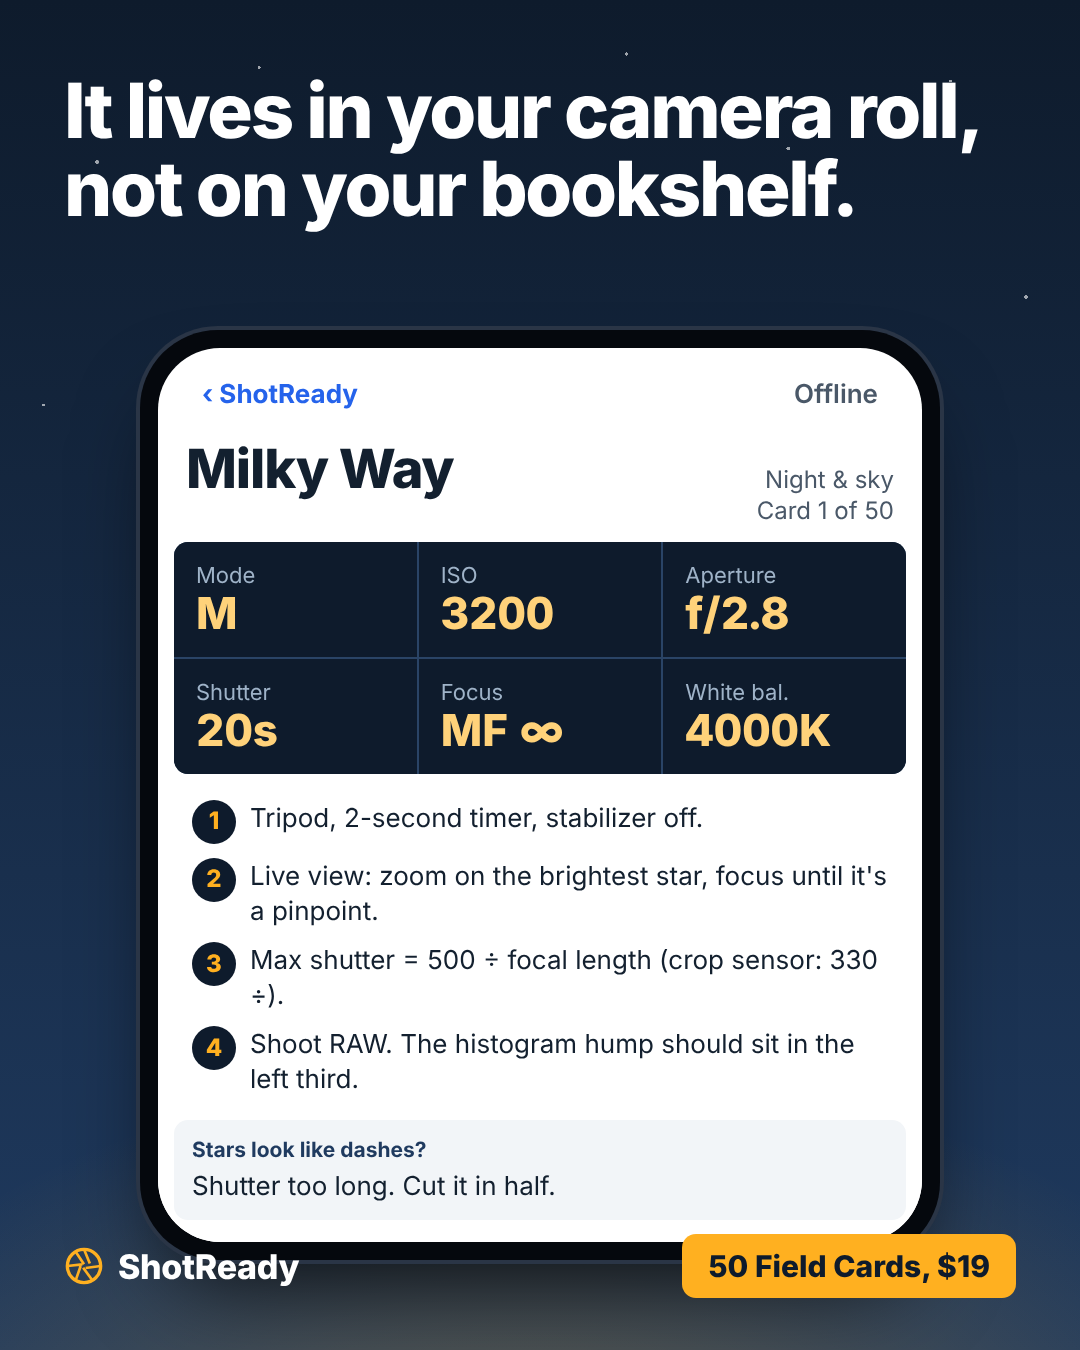
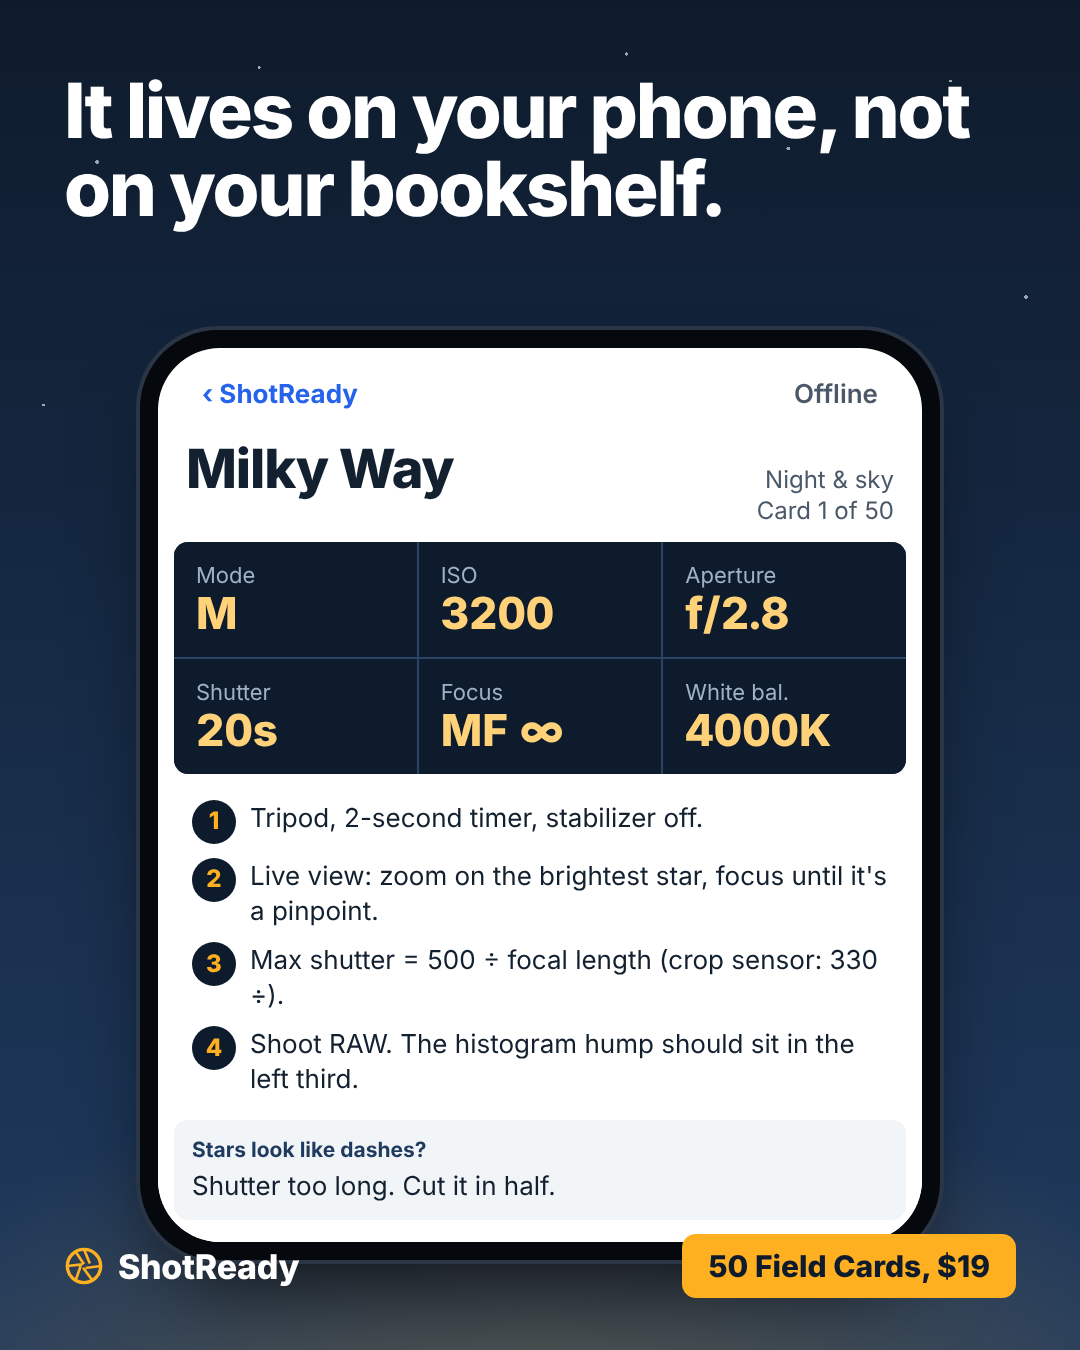
Match copy to the delivered files: phone edition PDF with tappable index
Claude-Session: https://claude.ai/code/session_015Tjp83YvPN1NWsvHv33vK8

Changed region(s): [[0.0611, 0.0622, 0.9167, 0.1867]]

diff --git a/thank-you.html b/thank-you.html
@@ -52,11 +52,11 @@ footer a{color:#C4D4E6}footer nav{display:flex;gap:18px;flex-wrap:wrap;margin-bo
 <h1>You're all set.</h1><p class="lede">Your files are on the way. Here's how to get them and make the most of them this week.</p></div></header>
 <main><section><div class="wrap"><h2>Get your files</h2><ol class="done-steps">
 <li><div><h3>Open the email from Hotmart</h3><p>It arrives within a few minutes at the address you used at checkout. Not there? Check spam and promotions.</p></div></li>
-<li><div><h3>Download everything</h3><p>Use the access link in the email. You'll find the 50 Field Card images, the print files and any add-ons you chose.</p></div></li>
-<li><div><h3>Save your Field Cards</h3><p>Save the 50 images in the Phone-Images folder to an album on your phone. They work offline, anywhere.</p></div></li></ol></div></section>
+<li><div><h3>Download everything</h3><p>Use the access link in the email. You'll find the Phone Edition, the print files and any add-ons you chose.</p></div></li>
+<li><div><h3>Save your Field Cards</h3><p>Save the Phone Edition PDF to your phone (the Files app on iPhone, Files or Drive on Android). Tap the index to jump to any card. It works offline, anywhere.</p></div></li></ol></div></section>
 <section class="offer"><div class="wrap"><h2>Try this tonight</h2><ul class="list">
 <li><svg width="18" height="18" viewBox="0 0 20 20" aria-hidden="true"><path d="M4 10.5l4 4 8-9" fill="none" stroke="currentColor" stroke-width="2.4" stroke-linecap="round" stroke-linejoin="round"/></svg><span>Open card 43, Exposure triangle, and read it once. Every other card builds on it.</span></li>
-<li><svg width="18" height="18" viewBox="0 0 20 20" aria-hidden="true"><path d="M4 10.5l4 4 8-9" fill="none" stroke="currentColor" stroke-width="2.4" stroke-linecap="round" stroke-linejoin="round"/></svg><span>Pick the 3 cards for your next trip and keep them at the top of your album.</span></li>
+<li><svg width="18" height="18" viewBox="0 0 20 20" aria-hidden="true"><path d="M4 10.5l4 4 8-9" fill="none" stroke="currentColor" stroke-width="2.4" stroke-linecap="round" stroke-linejoin="round"/></svg><span>Pick the 3 cards for your next trip and screenshot them, so they sit in your camera roll.</span></li>
 <li><svg width="18" height="18" viewBox="0 0 20 20" aria-hidden="true"><path d="M4 10.5l4 4 8-9" fill="none" stroke="currentColor" stroke-width="2.4" stroke-linecap="round" stroke-linejoin="round"/></svg><span>Run the Pre-trip camera setup card before you pack.</span></li></ul>
 <p class="note" style="margin-top:22px">Questions or a problem with your files? <a href="mailto:extrarenda048@gmail.com">Contact support</a>.</p></div></section></main>
 <footer><div class="wrap"><nav><a href="mailto:extrarenda048@gmail.com">Support</a><a href="terms.html">Terms</a><a href="privacy.html">Privacy</a><a href="refund.html">Refund policy</a></nav>
